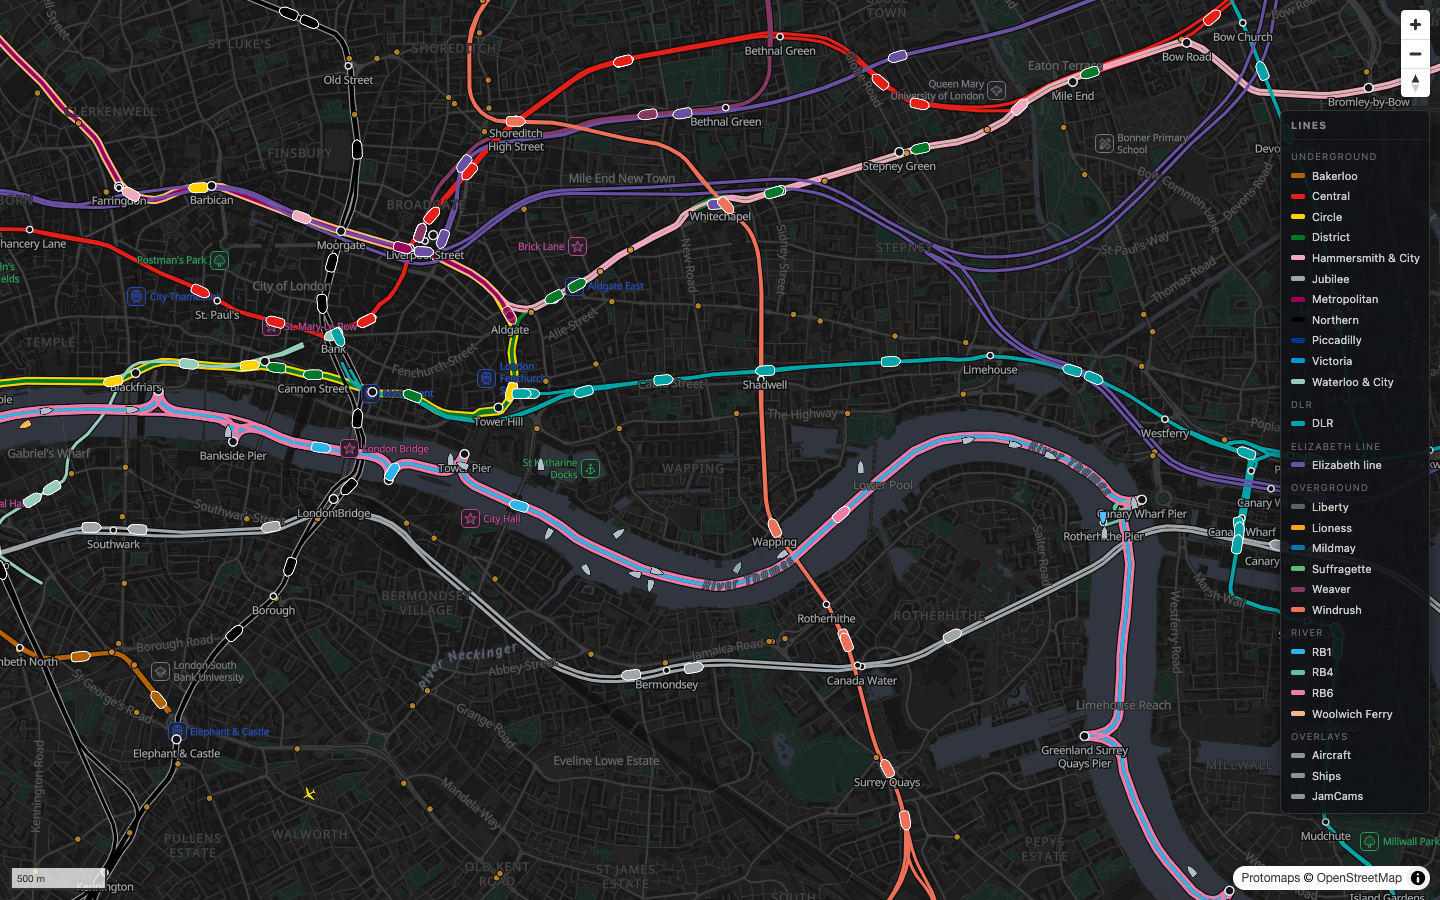
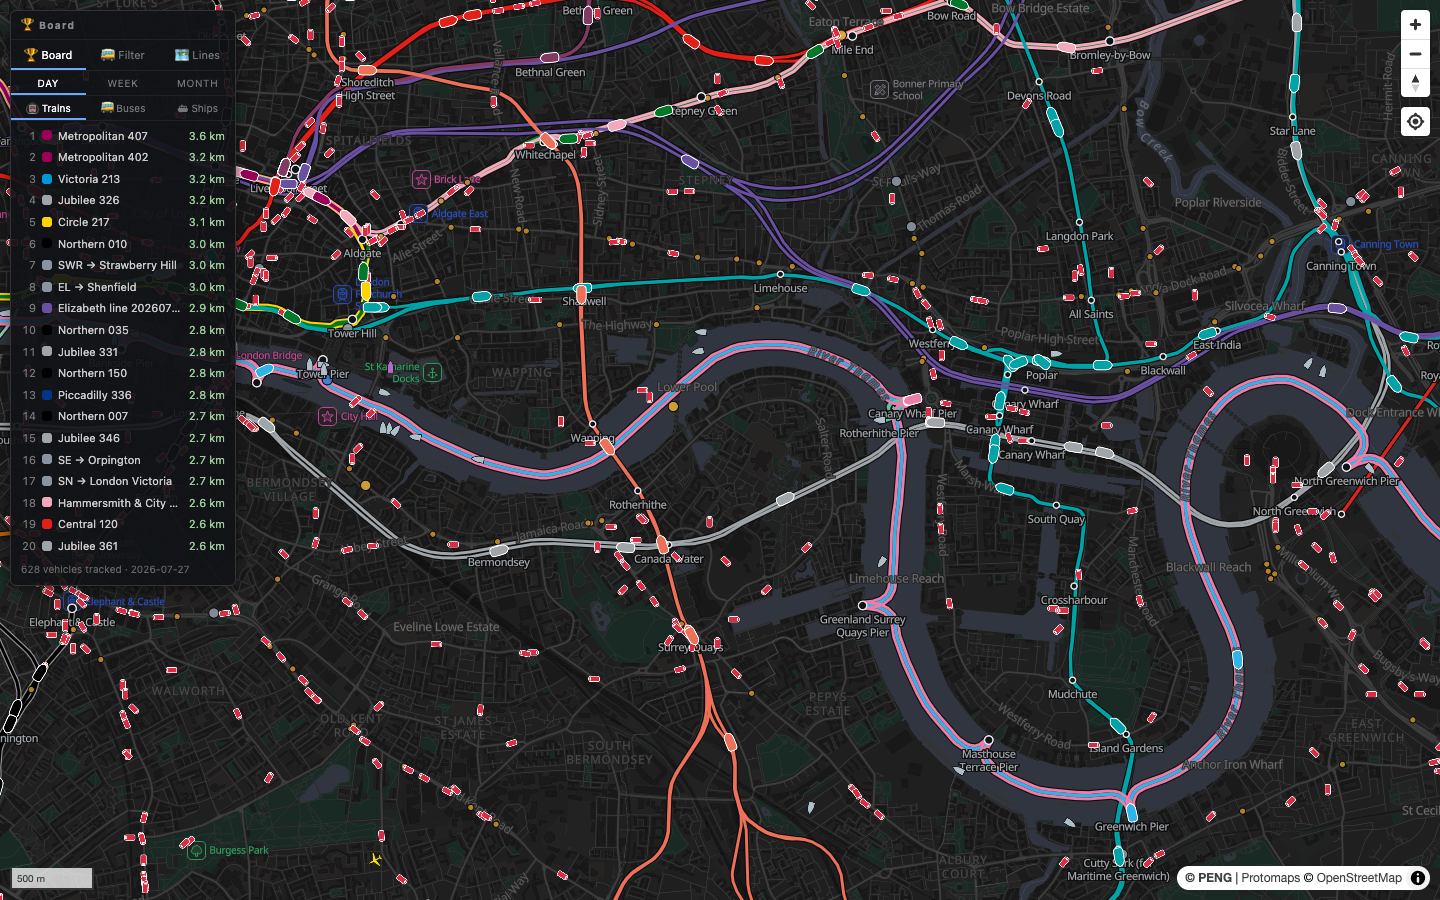
docs: refresh README screenshots and document the tabbed panel
- Regenerate all four screenshots against the current UI (tabbed Board/Filter/Lines panel)
- Add Cable Car, Tram, Roadworks, Tide gauges and Rain radar to the layer table
- Add 'Using the map' (Board ranking, bus route filter, line toggles, mobile collapse)
- Add 'Icons at a glance' legend (train dots, bus bullets, AIS ship colours, markers)

diff --git a/README.md b/README.md
@@ -17,9 +17,13 @@ Greater-London scale. Author: **PENG**.
 | 🚆 National Rail (431 stations) | Darwin via Rail Data Marketplace | Inferred from departure boards + calling points, pathed over a baked station-to-station rail graph |
 | 🚌 Buses (~6,700 live) | DfT Bus Open Data (SIRI-VM) | Real GPS + per-vehicle α-β-style tracker; **self-learning route geometry** snaps buses to their true paths (auto-retrains daily from collected traces) |
 | ⛴ Riverboats (RB1/RB4/RB6/Woolwich Ferry) | TfL | Countdown inference along the OSM Thames centreline, with curved pier approaches |
+| 🚡 Cable Car · 🚊 Tram | TfL Unified API | Same countdown inference as the rail modes, animated along real OSM geometry |
 | ⚓ Ships | AIS (aisstream.io) | Real positions; typed icons (cargo/tanker/passenger/tug); detail cards show dimensions, flag and a photo — ship photographs courtesy of [VesselFinder](https://www.vesselfinder.com), fetched per-MMSI |
 | ✈ Aircraft & helicopters | ADS-B (airplanes.live) | Real positions, dead-reckoned between polls; click for route lookup and an airframe photo via [Planespotters.net](https://www.planespotters.net) (with photographer attribution) |
 | 📷 JamCams (878 traffic cameras) | TfL | Click for a live still, auto-refreshing |
+| 🚧 Roadworks | TfL road disruptions | Live roadworks, closures and collisions as impact polygons + markers, refreshed every 2 min |
+| 🌊 Tide gauges | Environment Agency | Live water levels along the tidal Thames (Teddington → Tilbury) |
+| 🌧 Rain radar | RainViewer | Latest observed rainfall radar frame as a raster overlay |
 
 Train detail cards also show a representative photo of the line's rolling stock,
 bundled from [Wikimedia Commons](https://commons.wikimedia.org) (CC-licensed —
@@ -27,14 +31,37 @@ sources, licenses and authors in [docs/PHOTO_CREDITS.md](docs/PHOTO_CREDITS.md))
 
 ![Click a train for its calling pattern, platform and delay status](docs/images/train-detail.png)
 
-## Interactions
+## Using the map
 
-- **Hover** any vehicle, station or line for a quick tooltip (shared corridors list every line).
-- **Click** vehicles for detail cards that follow them: destination, next stop countdown,
-  calling pattern, platform, delay reason, vessel name/speed for boats.
-- **Click** stations for live departure boards + zone, facilities, crowding, lift alerts
-  and nearby cycle-hire docks.
-- **Legend** toggles every line and overlay.
+**Control panel** (top-left, three tabs):
+
+- **🏆 Board** — a live leaderboard ranking vehicles by cumulative distance travelled, over
+  **Day / Week / Month**, with separate **Trains / Buses / Ships** boards. Double-click any row
+  to fly to that vehicle (if it's currently running).
+- **🚌 Filter** — type a bus route number (e.g. `24`) to spotlight it: matching buses stay
+  **red** while every other bus **greys out but stays on the map and clickable**. Add several
+  routes as chips. With the Buses overlay switched **off**, the filter instead shows *only* the
+  matched routes and hides the rest.
+- **🗺 Lines** — toggle any line or overlay on/off; **Select all / Unselect all** flips them
+  all at once. Cable Car and Tram sit last (rarely used).
+
+On phones the panel starts collapsed — tap the header to open it, and tapping the map collapses
+it again so you can see the map.
+
+**Hover** any vehicle, station or line for a quick tooltip (shared corridors list every line).
+**Click** a vehicle for a detail card that follows it (destination, next-stop countdown, calling
+pattern, platform, delay reason; name/speed for boats). **Click** a station for its live
+departure board, zone, facilities, crowding, lift alerts and nearby cycle-hire docks.
+
+## Icons at a glance
+
+- **Trains** — a dot in the line's official colour (Central red, Victoria light-blue, …).
+- **Buses** — a red route bullet oriented to its heading; **black** = parked; **grey** = greyed
+  out by an active route filter.
+- **Ships** — a hull icon coloured by AIS vessel type: 🔵 passenger · 🟡 cargo · 🔴 tanker ·
+  🟢 fishing · 🟣 pleasure craft · ⚪ tug / pilot / SAR / unknown.
+- **Aircraft** — a plane (helicopters too), pointing along its track.
+- **📷 JamCam** cameras · **🚧 roadworks** · **🌊 tide gauges** — click any marker for details.
 
 ![Oriented bus bullets on street geometry](docs/images/buses.png)
 ![AIS ships and traffic cameras along the Thames](docs/images/ships-cams.png)
